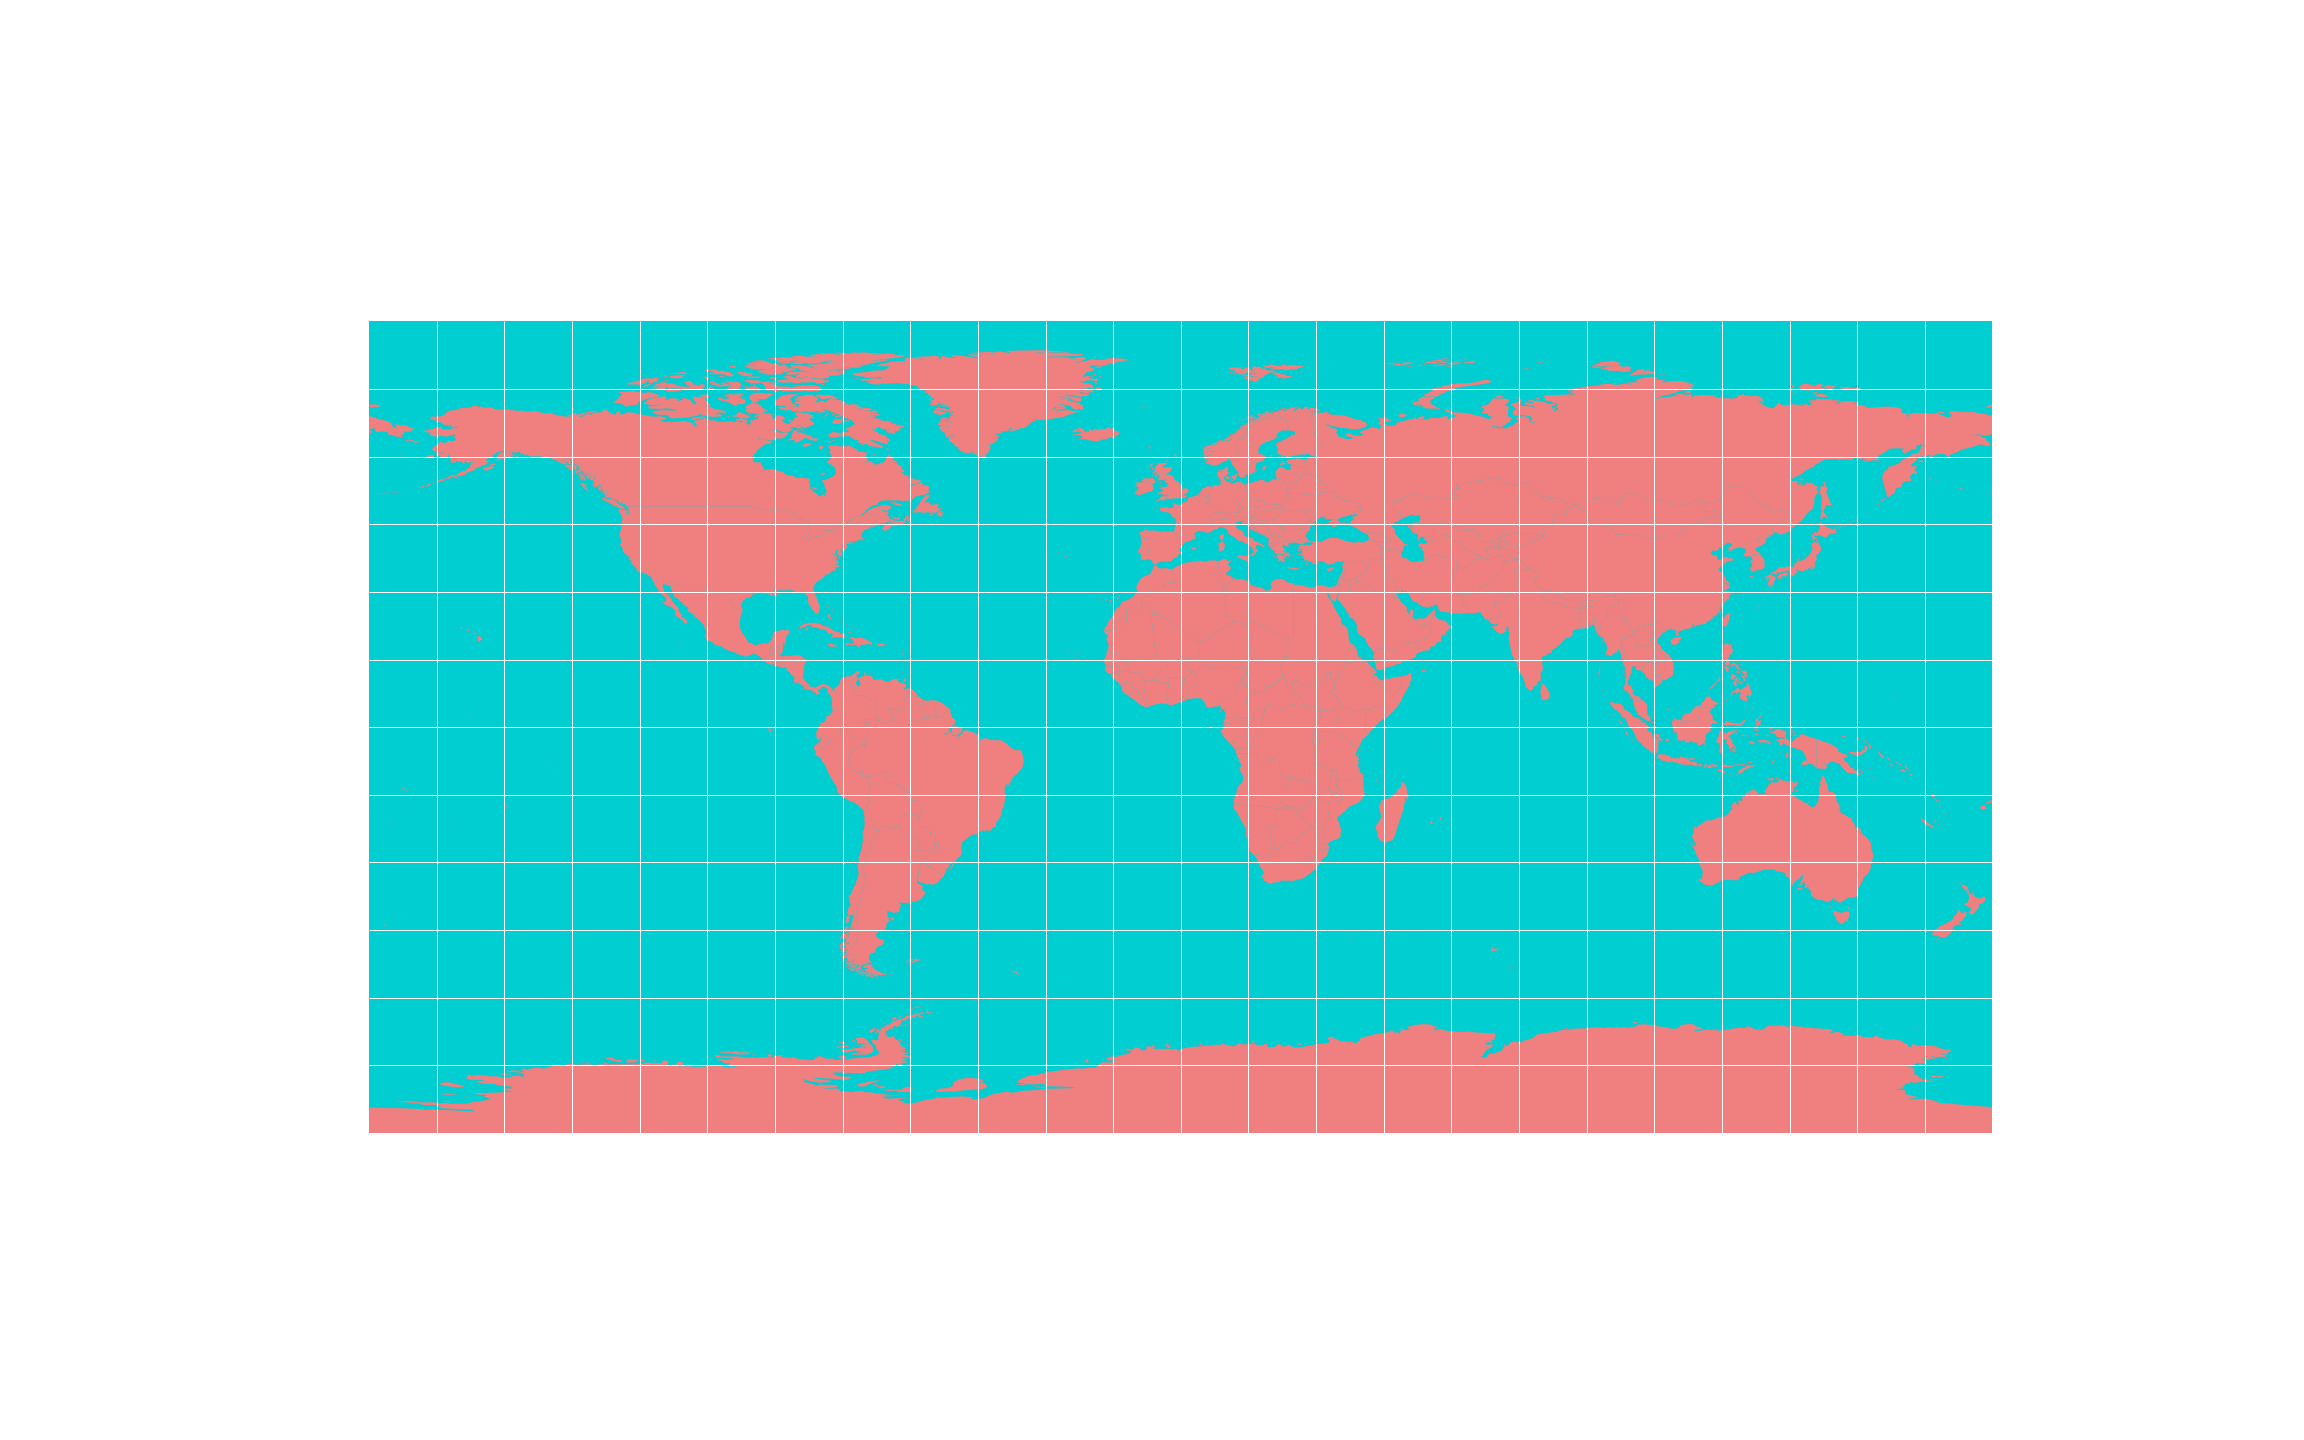
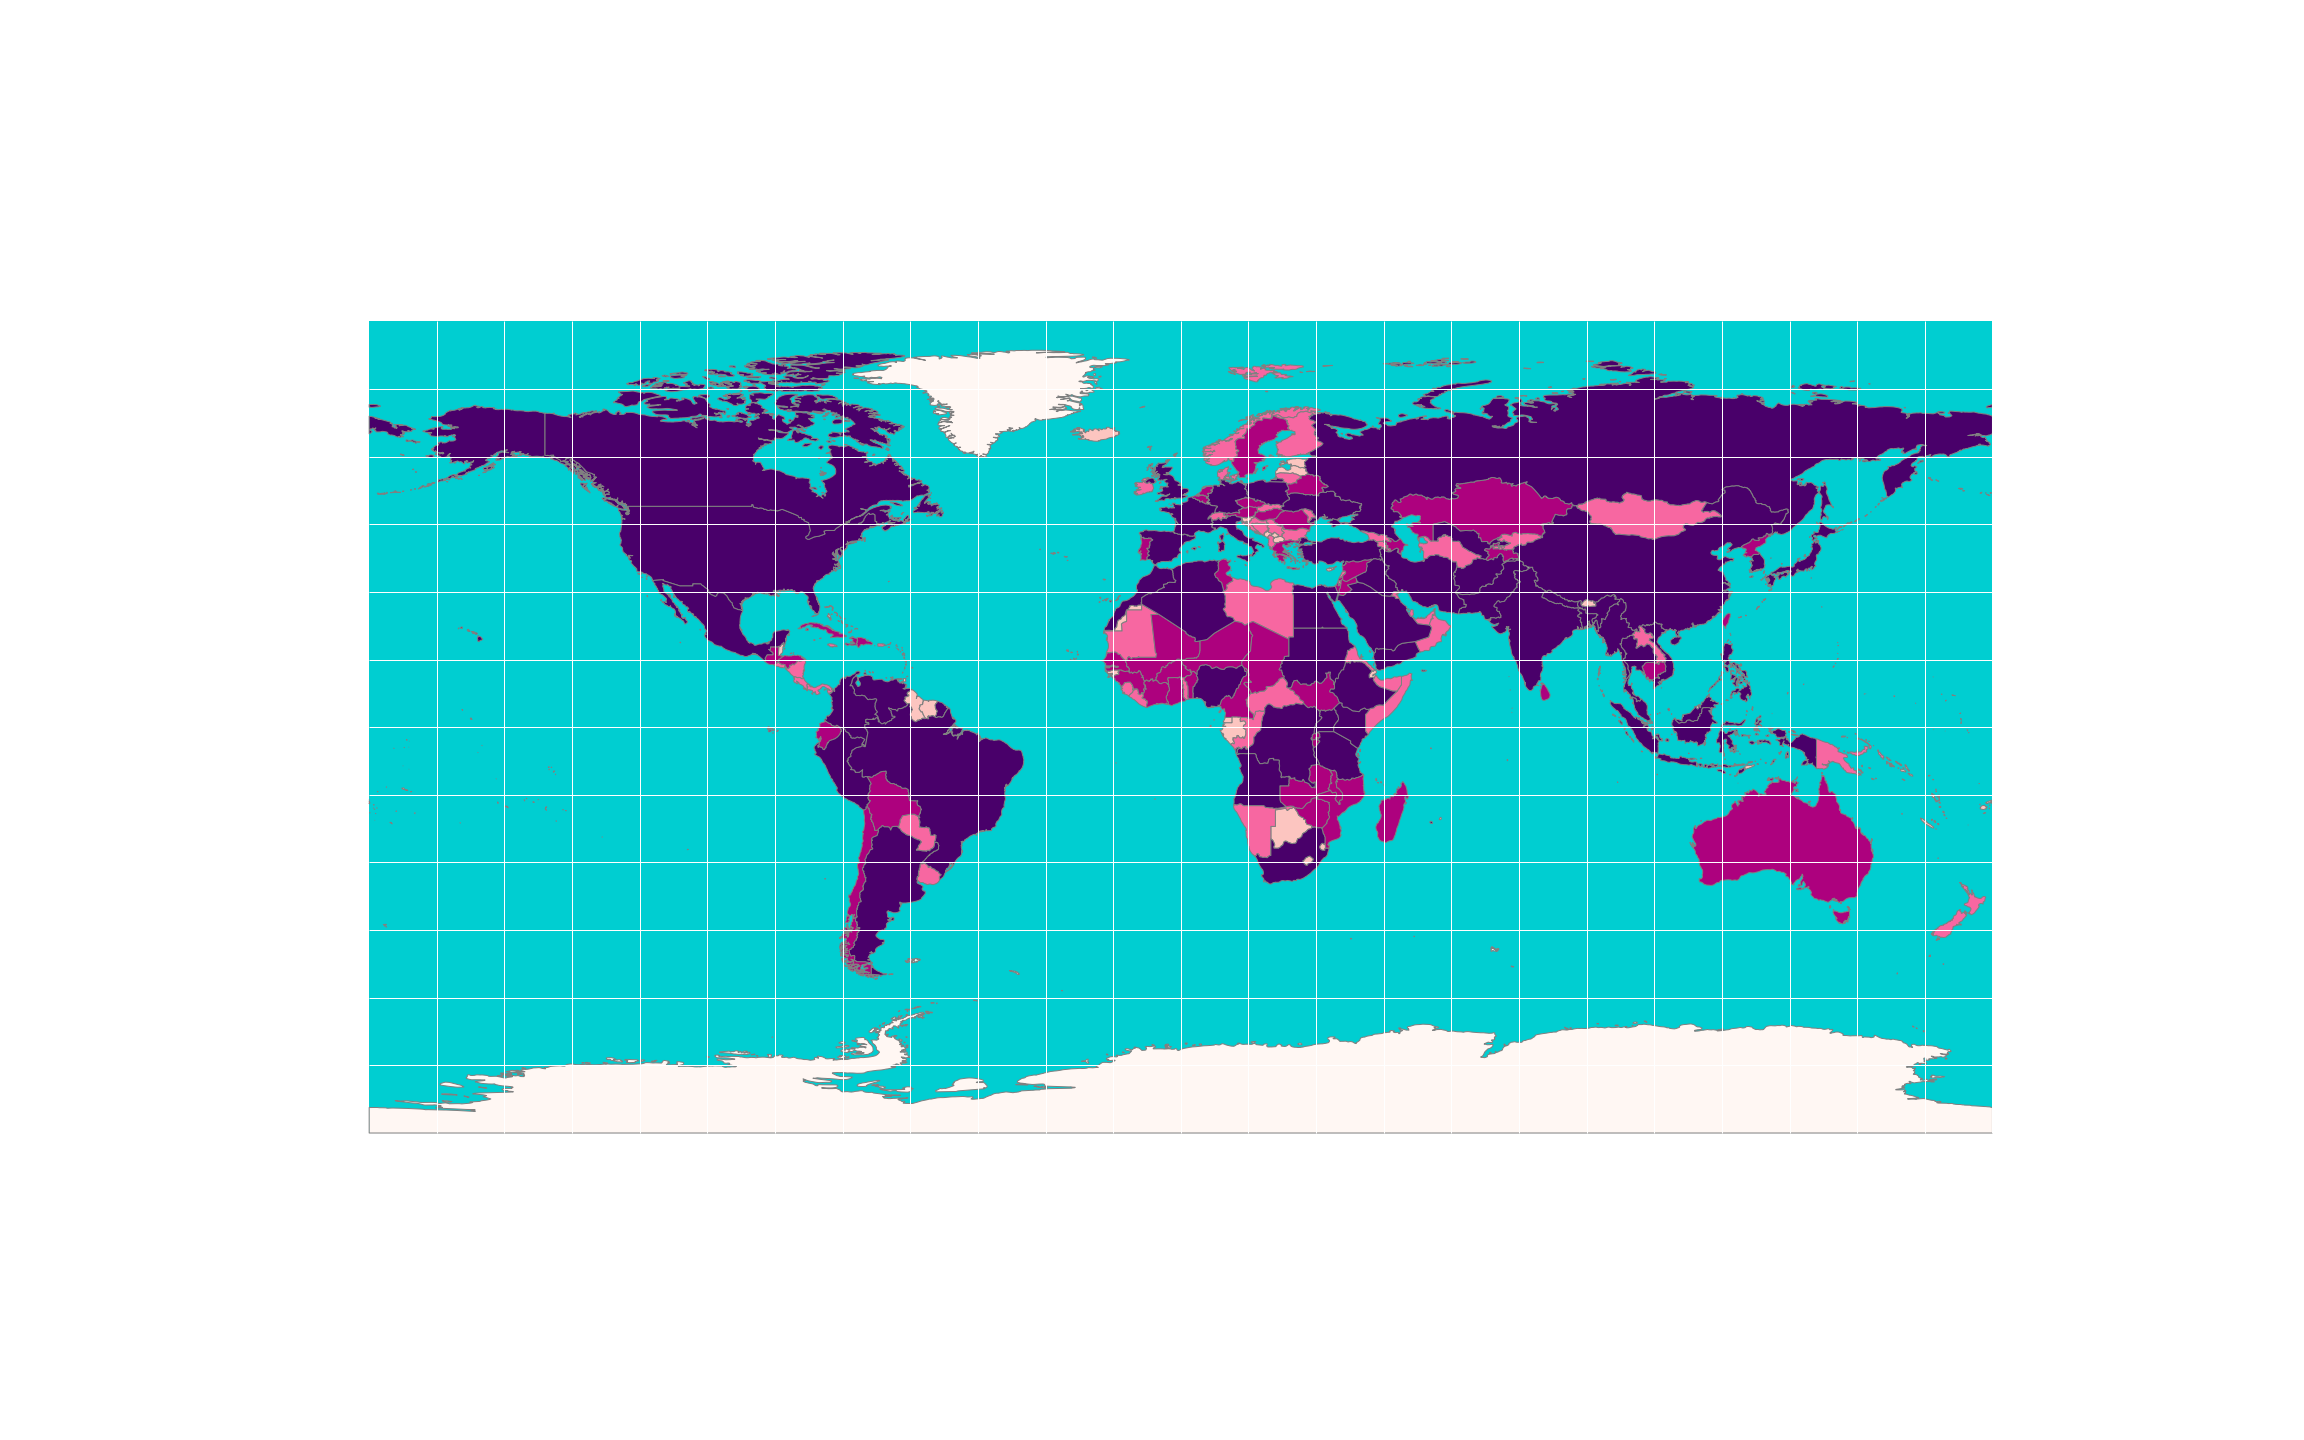
World Populations categorised and coloured

Changed region(s): [[0.1562, 0.2188, 0.875, 0.8125], [0.4688, 0.25, 0.875, 0.625], [0.8438, 0.625, 0.875, 0.6562]]

diff --git a/week1/week1.py b/week1/week1.py
@@ -3,8 +3,10 @@ from geopandas import read_file
 world = read_file("../../data/natural-earth/ne_50m_admin_0_countries.shp")
 graticule = read_file("../../data/natural-earth/ne_110m_graticules_15.shp")
 bbox = read_file("../../data/natural-earth/ne_110m_wgs84_bounding_box.shp")
+print(world.columns)
 print(world.head())
 from matplotlib.pyplot import subplots, savefig
+
 # create map axis object
 my_fig, my_ax = subplots(1, 1, figsize=(16, 10))
 
@@ -16,10 +18,13 @@ bbox.plot(
     )
 
 # plot the countries
-world.plot(
-    ax = my_ax,
-    color = 'lightcoral',
-    linewidth = 0.5,
+world.plot(								# plot the world dataset
+    ax = my_ax,						# specify the axis object to draw it to
+    column = 'POP_EST',		# specify the column used to style the dataset
+    cmap = 'RdPu',				# specify the colour map used to style the dataset based on POP_EST
+    scheme = 'quantiles',	# specify how the colour map will be mapped to the values in POP_EST
+    linewidth = 0.5,			# specify the line width for the country outlines
+    edgecolor = 'gray',		# specify the line colour for the country outlines
     )
 
 # plot the graticule
